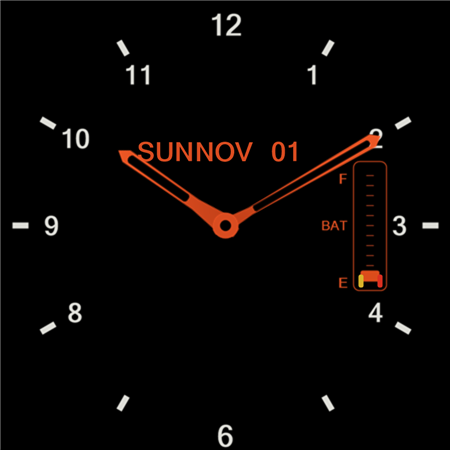
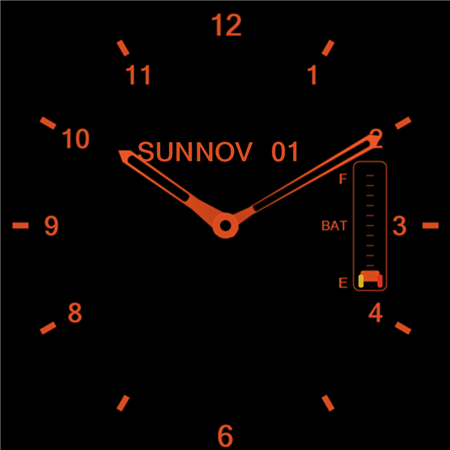
Recolor the always-on hour markers orange
Draw ambient ticks and numerals in the date orange. The preview measurement is lit 6.6%, on-pixel ratio 1.81%, linear light 0.93%, down from 2.50% and 1.56%.

diff --git a/docs/validation.md b/docs/validation.md
@@ -21,7 +21,7 @@ pending. Ambient rendering and Samsung display offload were observed on-device.
 | Maximum ambient decoded-resource estimate | 1,645,872 bytes (1.57 MiB) |
 | Physical watch install / activation / awake rendering | Passed with 0.4.1; activity symbols/targets follow the tracks and weather clears the 8 |
 | Mechanical tick motion | Native 130 ms Tick, strength 0.5; the earlier 180 ms setting had about 1.4–1.5 degrees of overshoot and return observed |
-| Ambient rendering | Orange hands, selected calendar and battery; white hour markers on black; captured while Dozing with display offload active |
+| Ambient rendering | Orange hands, selected calendar and battery. The Dozing capture showed white hour markers on black, with display offload active. Current assets draw those markers in the date orange |
 | Samsung steps payload | Live RANGED_VALUE observed from Samsung Health steps service; explicit goal not established |
 | Native weather availability | Unavailable state followed by current temperature, daily high, and condition icon |
 | Other activity payloads / source-app comparisons / extended ambient transitions / battery life | Pending |
@@ -84,8 +84,8 @@ millisecond expression was introduced; battery impact still needs measurement.
 
 The always-on scene follows `Always On Original Mockup.png`, with dedicated
 orange skeleton hand assets, a black-centered orange hub, selected calendar
-fields, and an orange battery gauge with threshold lamps. White hour markers
-and 12/3/6/9 sit on black. Both calendars use weekday/month/date order and share
+fields, and an orange battery gauge with threshold lamps. Hour markers
+and 12/3/6/9 use the date orange on black. Both calendars use weekday/month/date order and share
 the same date expressions. Seconds, neighboring drum entries, moon, weather,
 and activity graphics are absent in ambient. The physical watch reported
 Dozing and active display offload when its ambient screenshot was captured.

diff --git a/docs/data-sources.md b/docs/data-sources.md
@@ -129,7 +129,8 @@ moon API or native moon-phase source. See [moon calculation](moon-phase.md) for
 accuracy limits. Ambient mode displays orange hour/minute hands, the selected weekday,
 month, and date, a battery slider with threshold lamps, and the same hour
 numerals as the active face (1, 2, 3, 4, 6, 8, 9, 10, 11, and 12) at the same
-positions and sizes. The always-on date uses that face's live-row box. The
+positions and sizes. Those numerals and the hour ticks use the date orange
+`#d94c20`. The always-on date uses that face's live-row box. The
 ambient scene has no seconds, weather, moon, activity tracks,
 or adjacent calendar entries. Samsung display offload was observed active.
 Actual battery life must be measured on the watch.

diff --git a/docs/device-acceptance.md b/docs/device-acceptance.md
@@ -137,7 +137,7 @@ does not by itself confirm the face appears in every picker view.
 9. Check the default mechanical seconds and editor toggle, then test at 15% and below: seconds must disappear,
    with no flashing effects. Yellow lamp activates at 20%, red at 10%.
 10. Check always-on: orange hands, weekday/month/date, battery and low-battery
-    lamps; white hour markers and 12/3/6/9; black background. No weather,
+    lamps; orange hour markers and 12/3/6/9; black background. No weather,
     activity tracks, moon, neighboring drum labels, or seconds. Check
     ambient transitions, burn-in shifting, lock/unlock, wake, and relaunch.
 11. Measure a representative full-day battery run against a stock face with
